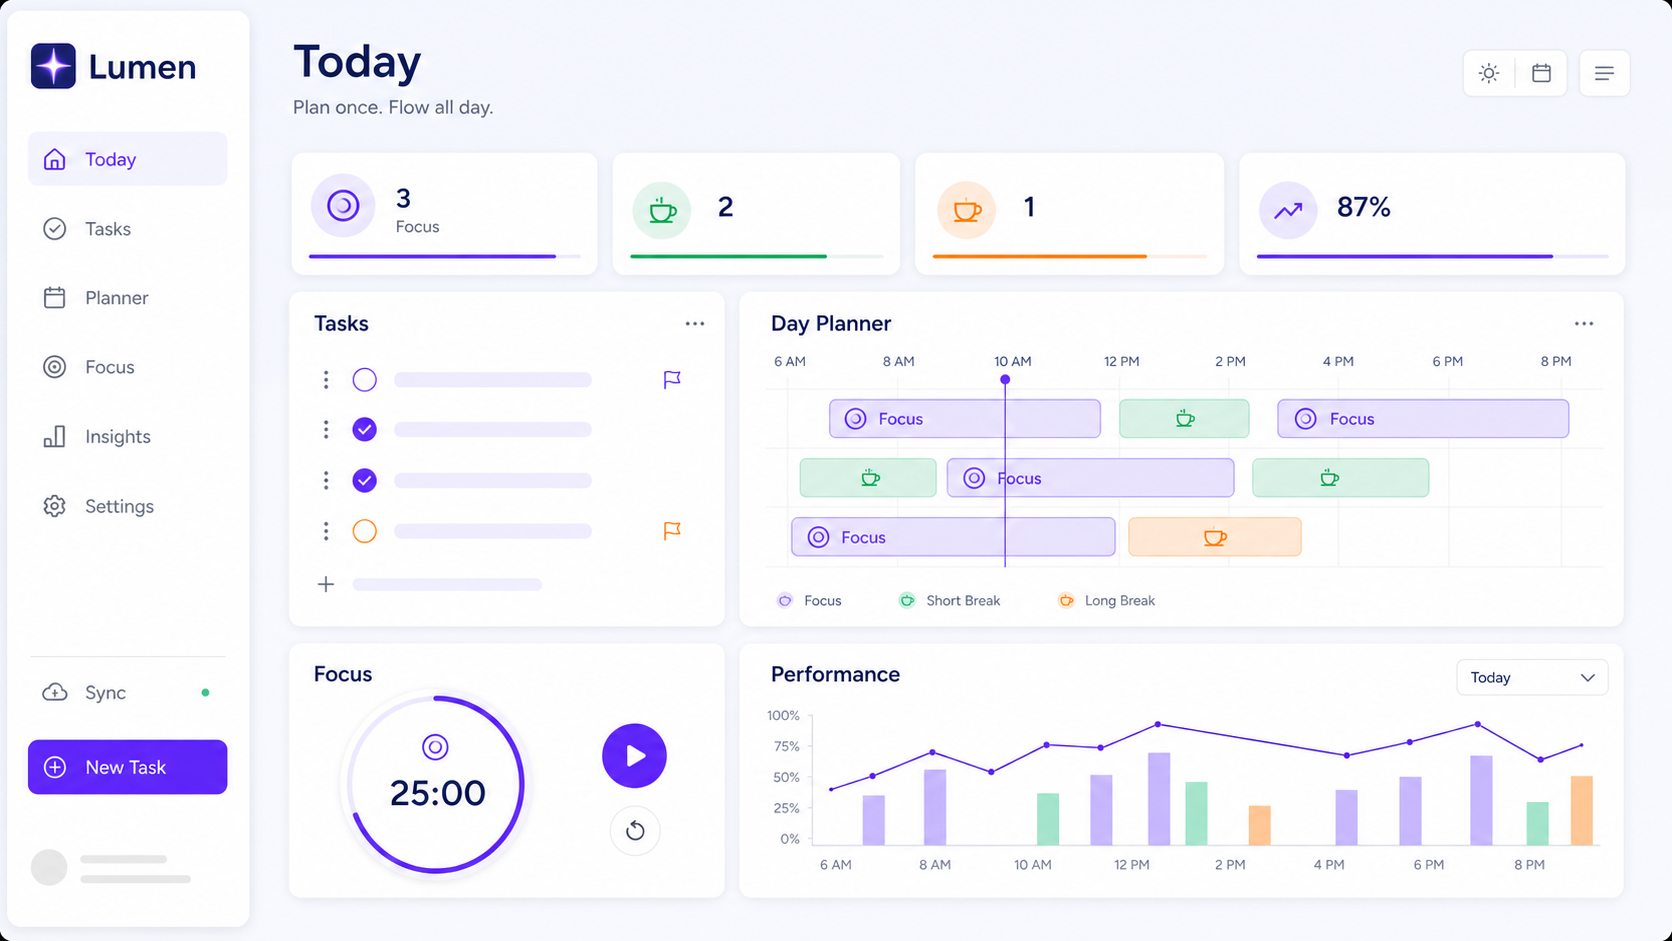
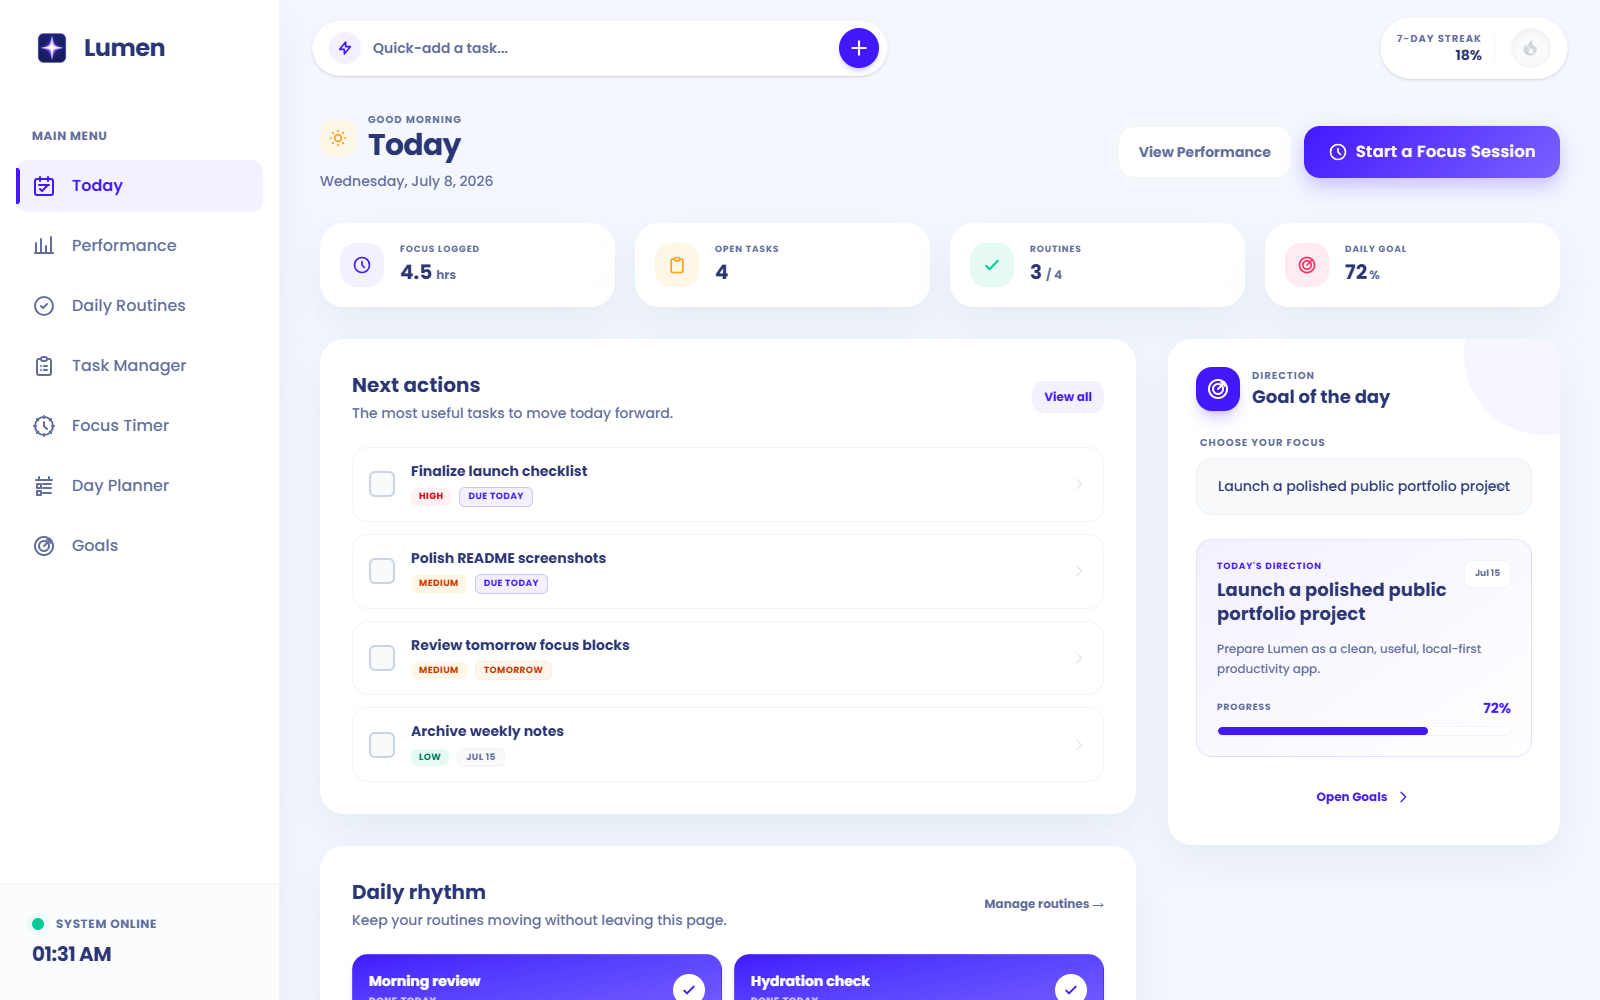
replace product preview with real dashboard screenshot

diff --git a/README.md b/README.md
@@ -18,7 +18,7 @@
 ## Product preview
 
 <div align="center">
-  <img src="media/lumen-dashboard-preview.png" width="1200" alt="Lumen dashboard showing Today, tasks, Day Planner, Focus timer, and Performance views">
+  <img src="media/lumen-dashboard-preview.png" width="1200" alt="Real Lumen Today dashboard screenshot showing focus metrics, next actions, routines, and goal of the day">
 </div>
 
 ## What is Lumen?